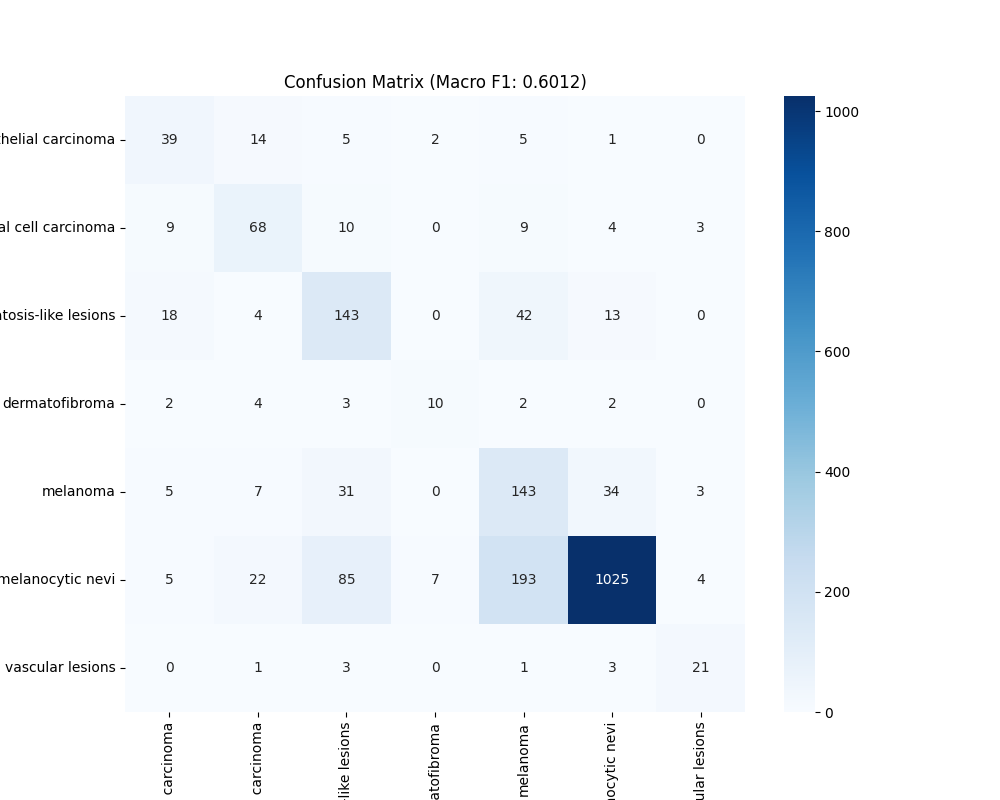
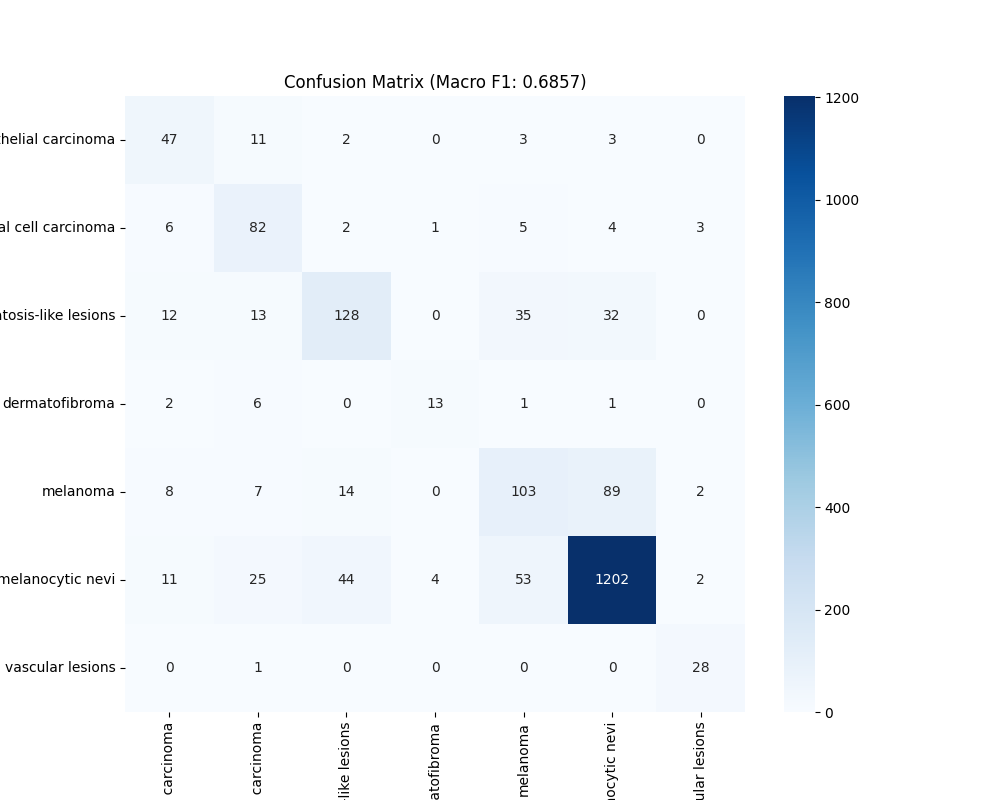
niezle

diff --git a/medadvml/__main__.py b/medadvml/__main__.py
@@ -26,8 +26,7 @@ def get_soup_for_task(model, name):
     
     def dermamnist(model):
         criterion = FocalLoss(gamma=2.0)
-        # optimizer = optim.SGD(model.model.parameters(), lr=0.001, momentum=0.9)
-        optimizer = torch.optim.AdamW(model.parameters(), lr=0.001, weight_decay=1e-4)
+        optimizer = torch.optim.AdamW(model.model.parameters(), lr=0.001, weight_decay=1e-4)
         scheduler = optim.lr_scheduler.StepLR(optimizer, step_size=7, gamma=0.1)
         return criterion, optimizer, scheduler
 
@@ -44,13 +43,13 @@ def get_soup_for_task(model, name):
 
 def main(opts):
     config  = Config(opts.task)
-    dataloaders, class_names = get_dataloader(config)
+    dataloaders, class_names, dataset_sizes = get_dataloader(config)
     model = ModelWrapper(config)
 
     criterion, optimizer, scheduler = get_soup_for_task(model, config.name)
 
     model.analyze_data(dataloaders, class_names)
-    model.fit(dataloaders, criterion, optimizer, scheduler, num_epochs=opts.epochs)
+    model.fit(dataloaders, dataset_sizes, criterion, optimizer, scheduler, num_epochs=opts.epochs)
 
     model.confusion_matrix(dataloaders, class_names)
     # model.visualize(dataloaders, class_names)

diff --git a/medadvml/models/__init__.py b/medadvml/models/__init__.py
@@ -158,7 +158,7 @@ class ModelWrapper():
         for phase in ['train', 'val', 'test']:
             all_labels = []
             for _, labels in dataloaders[phase]:
-                all_labels.extend(labels.cpu().numpy())
+                all_labels.extend(labels.cpu().numpy().flatten())
             
             label_counts = dict(Counter(all_labels))
             total_images = sum(label_counts.values())
